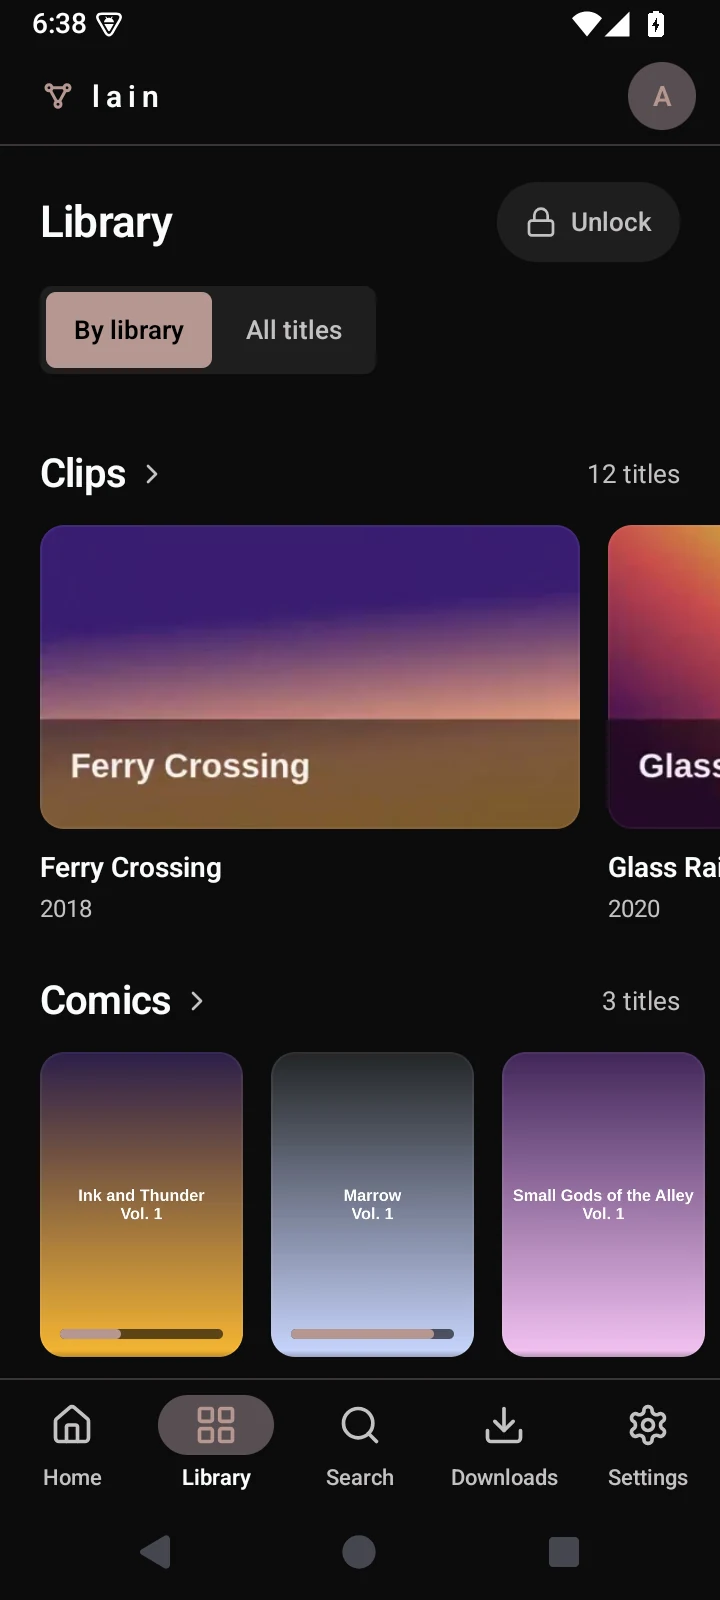
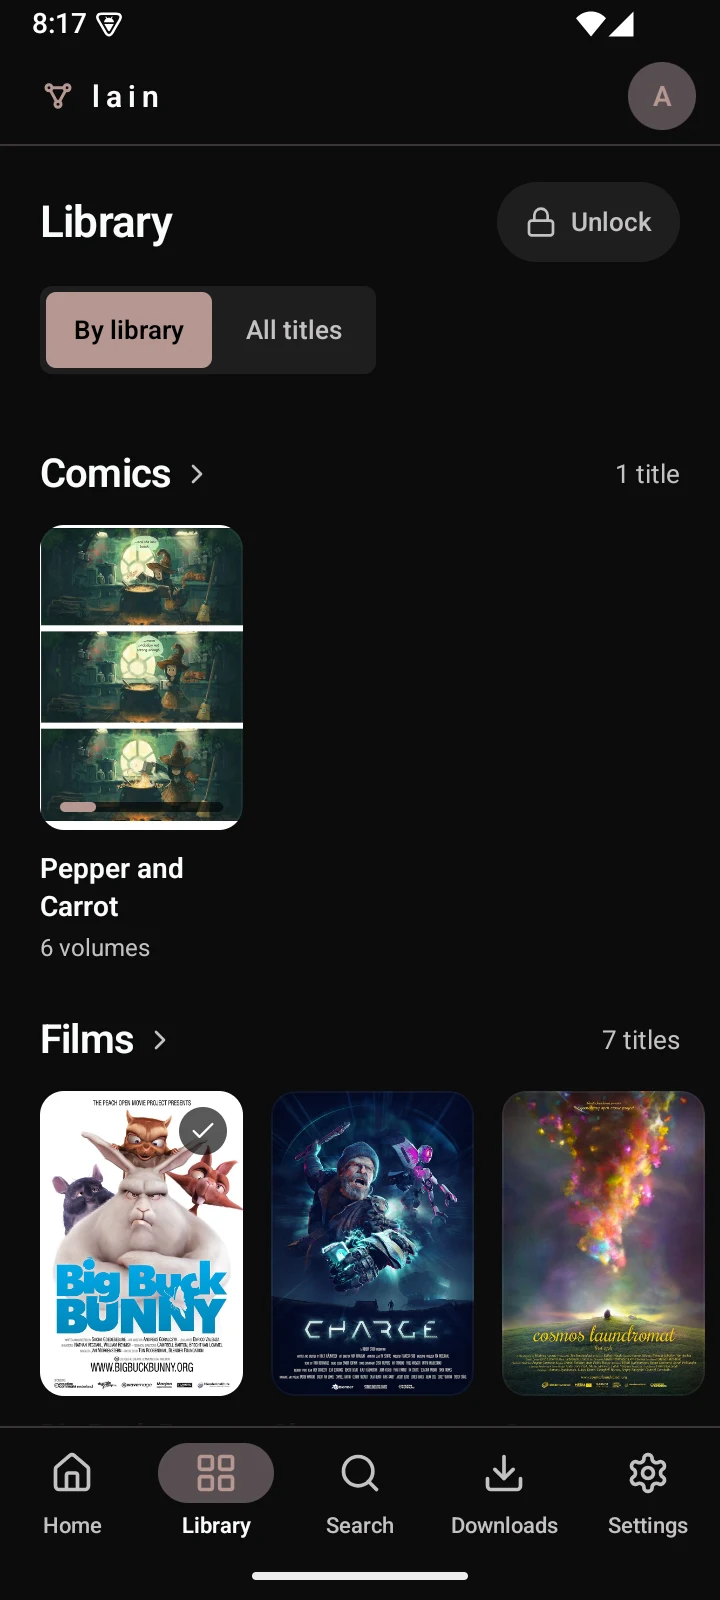
docs: the reader and the Android app on the demo library
The reader's screenshot shows Pepper&Carrot, and the Android ones the
Blender films and the comic, taken with gesture navigation (no three
button bar).

diff --git a/README.md b/README.md
@@ -32,7 +32,9 @@ grid, and the next thing to watch always one key away. No account, no
 cloud, nothing between you and your files.
 
 > Real screenshots of the client on its author's library. The reader and the
-> Android app show a demo library.
+> Android app show the [live demo](https://enrell.github.io/lain/#tour)'s
+> library: the Blender Studio open films and Pepper&Carrot by David Revoy,
+> both CC BY.
 
 ## A look around
 
@@ -50,7 +52,7 @@ cloud, nothing between you and your files.
 </p>
 
 <p align="center">
-  <img src="site/assets/shots/android.webp" alt="The Android app: Home, a series page and the library" width="650" />
+  <img src="site/assets/shots/android.webp" alt="The Android app: Home, a film page and a comic's page" width="650" />
   <br />
   <em>The Android app: native Kotlin on the same Rust core, signed and attached to every release.</em>
 </p>
